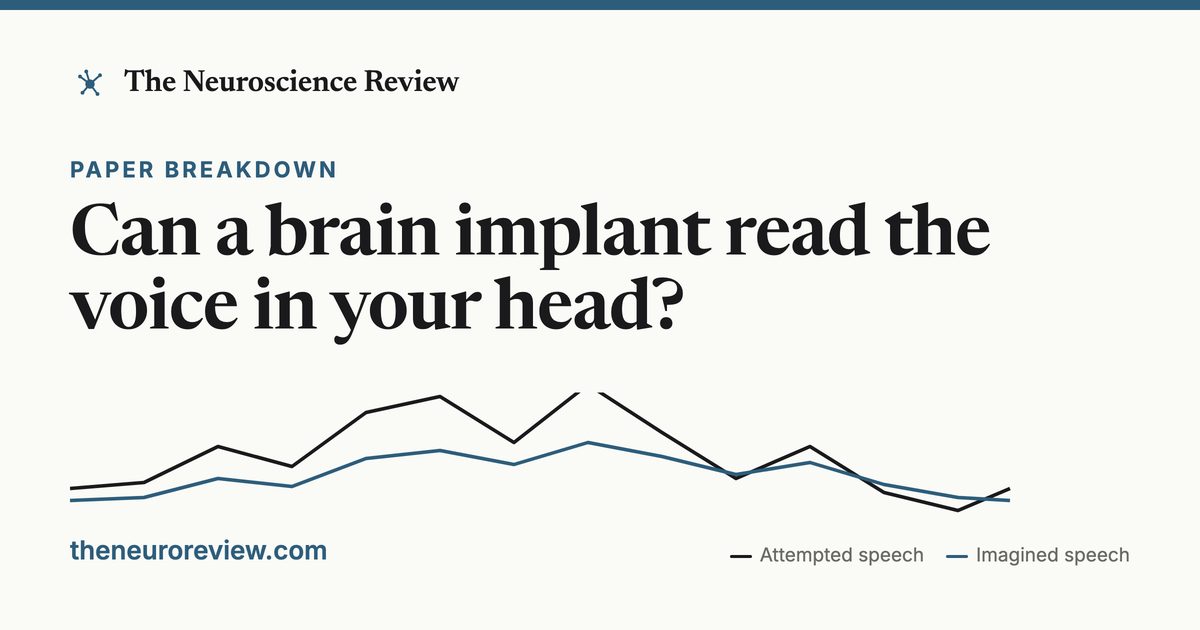
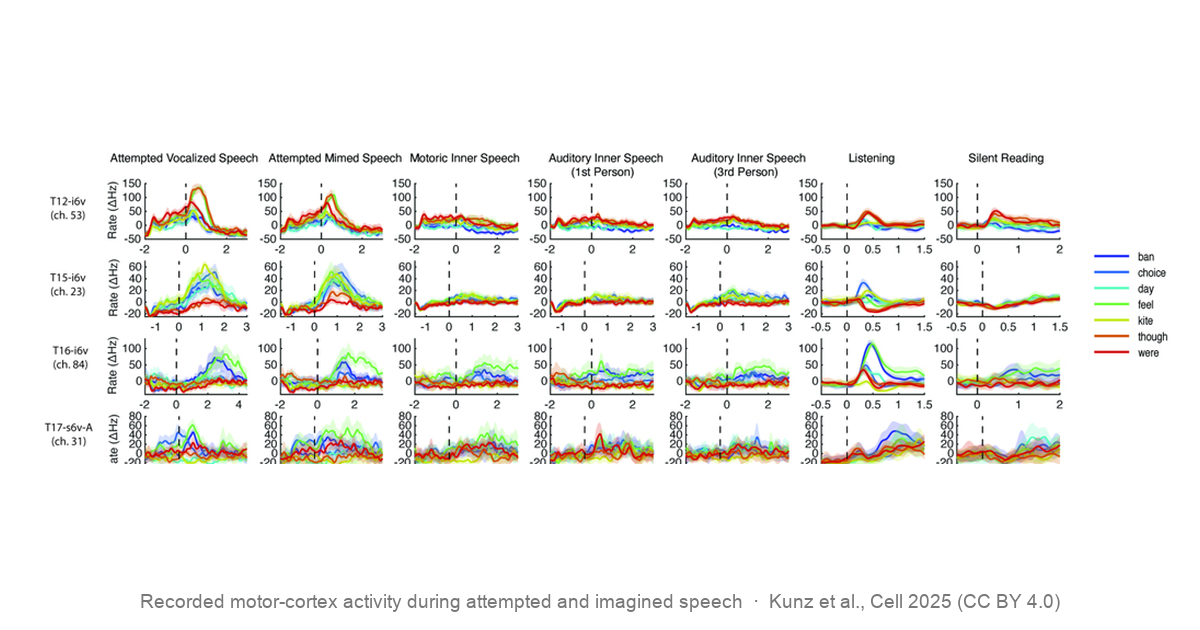
Swap inner-voice thumbnail to recorded neural-activity figure (Kunz et al. Fig 1D, CC BY 4.0); add late-onset psychosis tau news item

diff --git a/news.html b/news.html
@@ -89,6 +89,13 @@
       <div class="post-body">
         <!-- NEWS-FEED-START -->
         <article class="news-item">
+          <p class="news-item__meta">August 3, 2026 &middot; via <a href="https://www.nature.com/articles/s41380-026-03749-3" target="_blank" rel="noopener">Molecular Psychiatry (QST, Japan)</a></p>
+          <h2><a href="https://www.nature.com/articles/s41380-026-03749-3" target="_blank" rel="noopener">In People With Late-Onset Psychosis, Most Showed Alzheimer's-Type Tau on PET Scans</a></h2>
+          <p>In a PET imaging study of 37 people who developed psychosis late in life, about 65 percent showed abnormal tau buildup, the protein tied to Alzheimer's, compared with about 15 percent of 47 age-matched healthy adults. Raised amyloid, another Alzheimer's marker, showed up in 35 percent of the patients versus just 2 percent of the controls. The authors read this as a sign that psychosis starting later in life can be an early face of neurodegeneration rather than a purely psychiatric condition.</p>
+          <p class="news-item__caveat"><em>This is a small cross-sectional study that captures a single moment, so it can't show whether the tau buildup drove the psychosis or how these patients go on to fare.</em></p>
+        </article>
+
+        <article class="news-item">
           <p class="news-item__meta">August 3, 2026 &middot; via <a href="https://neurosciencenews.com/internal-rhythm-sleep-auditory-neuroscience-31170/" target="_blank" rel="noopener">Neuroscience News / Current Biology (University of Lausanne)</a></p>
           <h2><a href="https://neurosciencenews.com/internal-rhythm-sleep-auditory-neuroscience-31170/" target="_blank" rel="noopener">During REM Sleep, the Brain Turns Down Outside Sounds and Turns Up the Heartbeat</a></h2>
           <p>In 25 adults recorded with high density EEG across two nights, the brain's response to external sounds weakened as REM sleep deepened, while its response to each heartbeat grew stronger. The authors describe it as the sleeping brain shifting its attention from the outside world to the body.</p>

diff --git a/index.html b/index.html
@@ -151,16 +151,16 @@
           <ul class="home-news">
             <!-- HOME-NEWS-START -->
               <li class="home-news__item">
+                <a class="home-news__headline" href="https://www.nature.com/articles/s41380-026-03749-3" target="_blank" rel="noopener">In People With Late-Onset Psychosis, Most Showed Alzheimer's-Type Tau on PET Scans</a>
+                <span class="home-news__meta">August 3, 2026 &middot; Molecular Psychiatry (QST, Japan)</span>
+              </li>
+              <li class="home-news__item">
                 <a class="home-news__headline" href="https://neurosciencenews.com/internal-rhythm-sleep-auditory-neuroscience-31170/" target="_blank" rel="noopener">During REM Sleep, the Brain Turns Down Outside Sounds and Turns Up the Heartbeat</a>
                 <span class="home-news__meta">August 3, 2026 &middot; Neuroscience News / Current Biology (University of Lausanne)</span>
               </li>
               <li class="home-news__item">
                 <a class="home-news__headline" href="https://neurosciencenews.com/internal-music-decoded-neuroscience-31169/" target="_blank" rel="noopener">Researchers Rebuilt the Rough Melody of a Song People Only Imagined, From Brain Signals</a>
                 <span class="home-news__meta">August 3, 2026 &middot; Neuroscience News / eNeuro (Seoul National University)</span>
-              </li>
-              <li class="home-news__item">
-                <a class="home-news__headline" href="https://neurosciencenews.com/orexin-neurons-motivation-31173/" target="_blank" rel="noopener">In Rats, a Group of Orexin Neurons Set How Much Effort the Animal Would Put In</a>
-                <span class="home-news__meta">August 3, 2026 &middot; Neuroscience News (Nagoya University)</span>
               </li>
               <!-- HOME-NEWS-END -->
           </ul>
